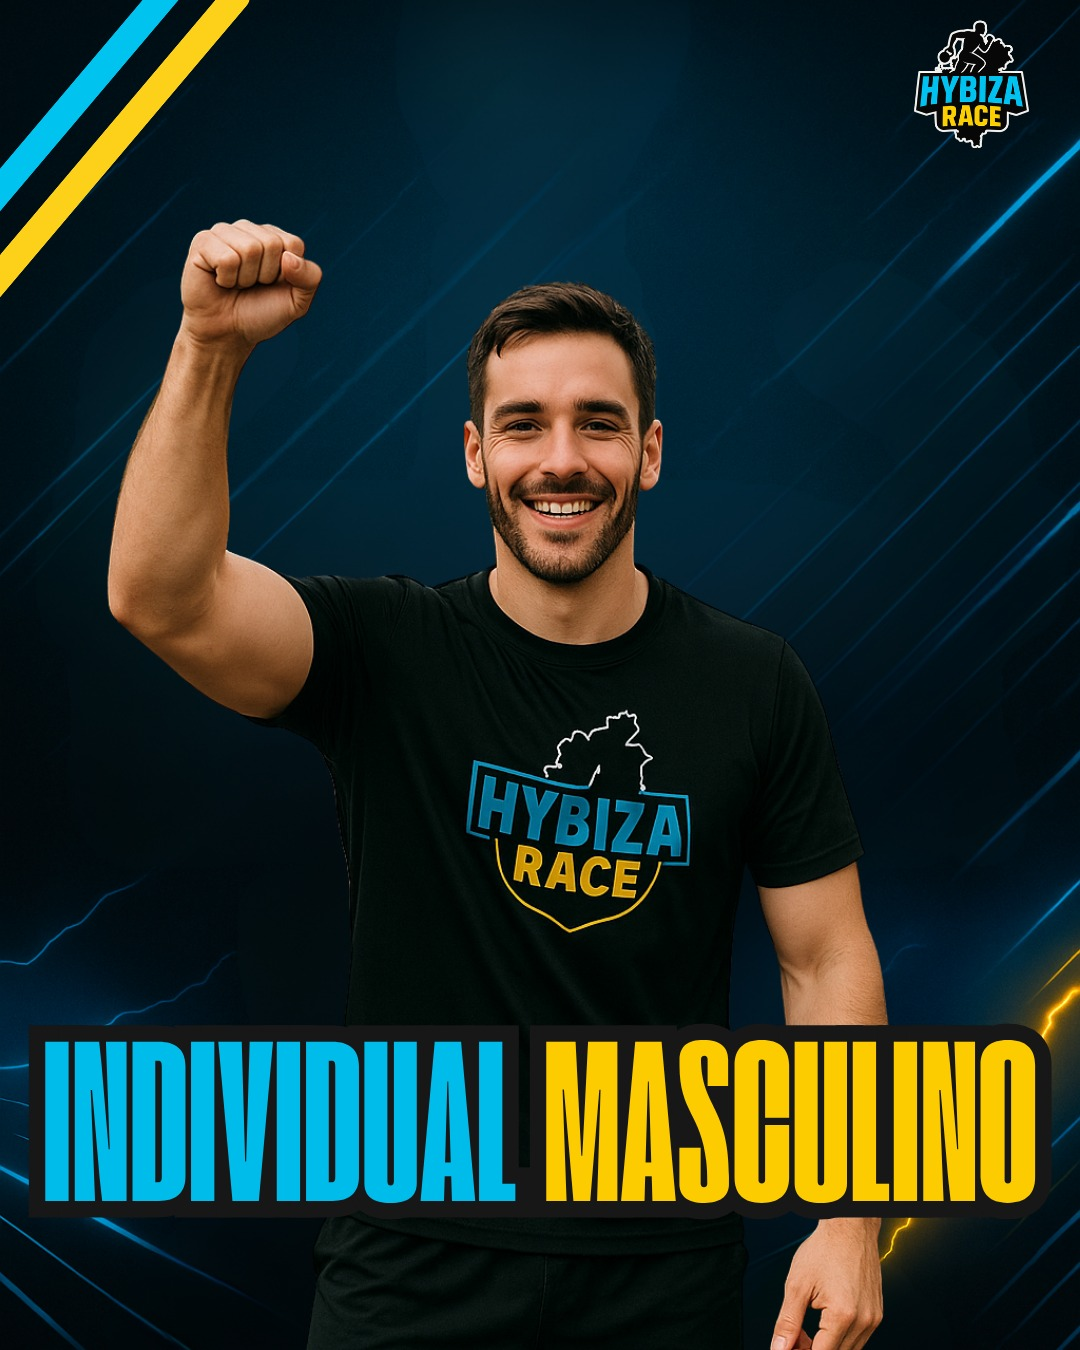
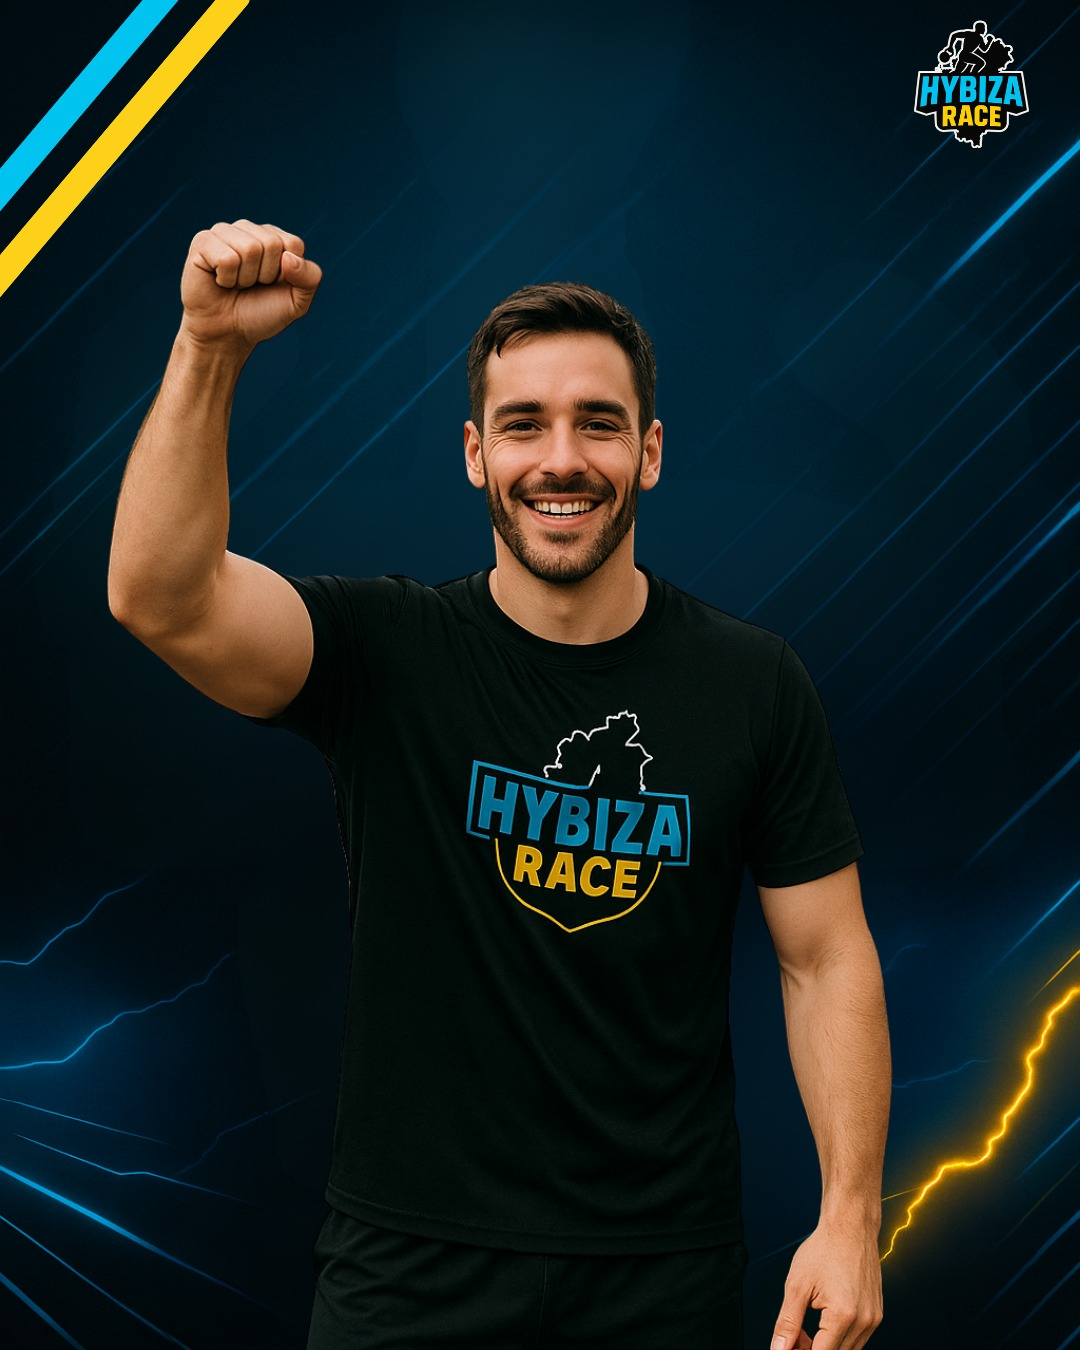
feat: actualizar imágenes de categorías y corregir rutas de archivos

Changed region(s): [[0.0, 0.7467, 0.9778, 0.9022]]

diff --git a/src/app/components/category-selector.component.ts b/src/app/components/category-selector.component.ts
@@ -123,12 +123,17 @@ export interface WorkoutLevelOption {
                 [class.scale-110]="categoryService.workoutLevel() === wl.value"
                 class="group cursor-pointer relative size-12 rounded-full bg-gradient-to-r from-yellow-400 to-orange-500 flex items-center justify-center font-black text-slate-900 transition-all duration-300 hover:scale-105 hover:shadow-lg hover:shadow-yellow-400/50"
               >
-                <span
-                  class="flex items-center justify-center font-bold text-black"
-                >
-                  {{ wl.label }}
-                </span>
+                <img
+                  [src]="wl.src"
+                  [alt]="wl.label"
+                  class="w-full h-full object-cover rounded-full"
+                />
               </button>
+              <span
+                class="flex items-center justify-center font-bold text-white"
+              >
+                {{ wl.label }}
+              </span>
             </div>
           }
         </div>
@@ -143,17 +148,17 @@ export class CategorySelectorComponent {
     {
       value: 'individual' as ParticipationType,
       label: 'Individual',
-      src: '/categories/individual_women.jpeg',
+      src: '/categories/individual_men.jpeg',
     },
     {
       value: 'duo' as ParticipationType,
       label: 'Parejas',
-      src: '/categories/duo_men.jpeg',
+      src: '/categories/duo_mix.jpeg',
     },
     {
       value: 'team' as ParticipationType,
       label: 'Equipo',
-      src: '/categories/team_women.jpeg',
+      src: '/categories/team_mix.jpeg',
     },
   ];
 
@@ -167,17 +172,17 @@ export class CategorySelectorComponent {
     {
       value: 'open' as WorkoutLevel,
       label: 'Open',
-      src: '/categories/open.png',
+      src: '/categories/open.jpeg',
     },
     {
       value: 'pro' as WorkoutLevel,
       label: 'Pro',
-      src: '/categories/pro.png',
+      src: '/categories/pro.jpeg',
     },
     {
       value: 'elite' as WorkoutLevel,
       label: 'Élite',
-      src: '/categories/elite.png',
+      src: '/categories/elite.jpeg',
     },
   ];
 
